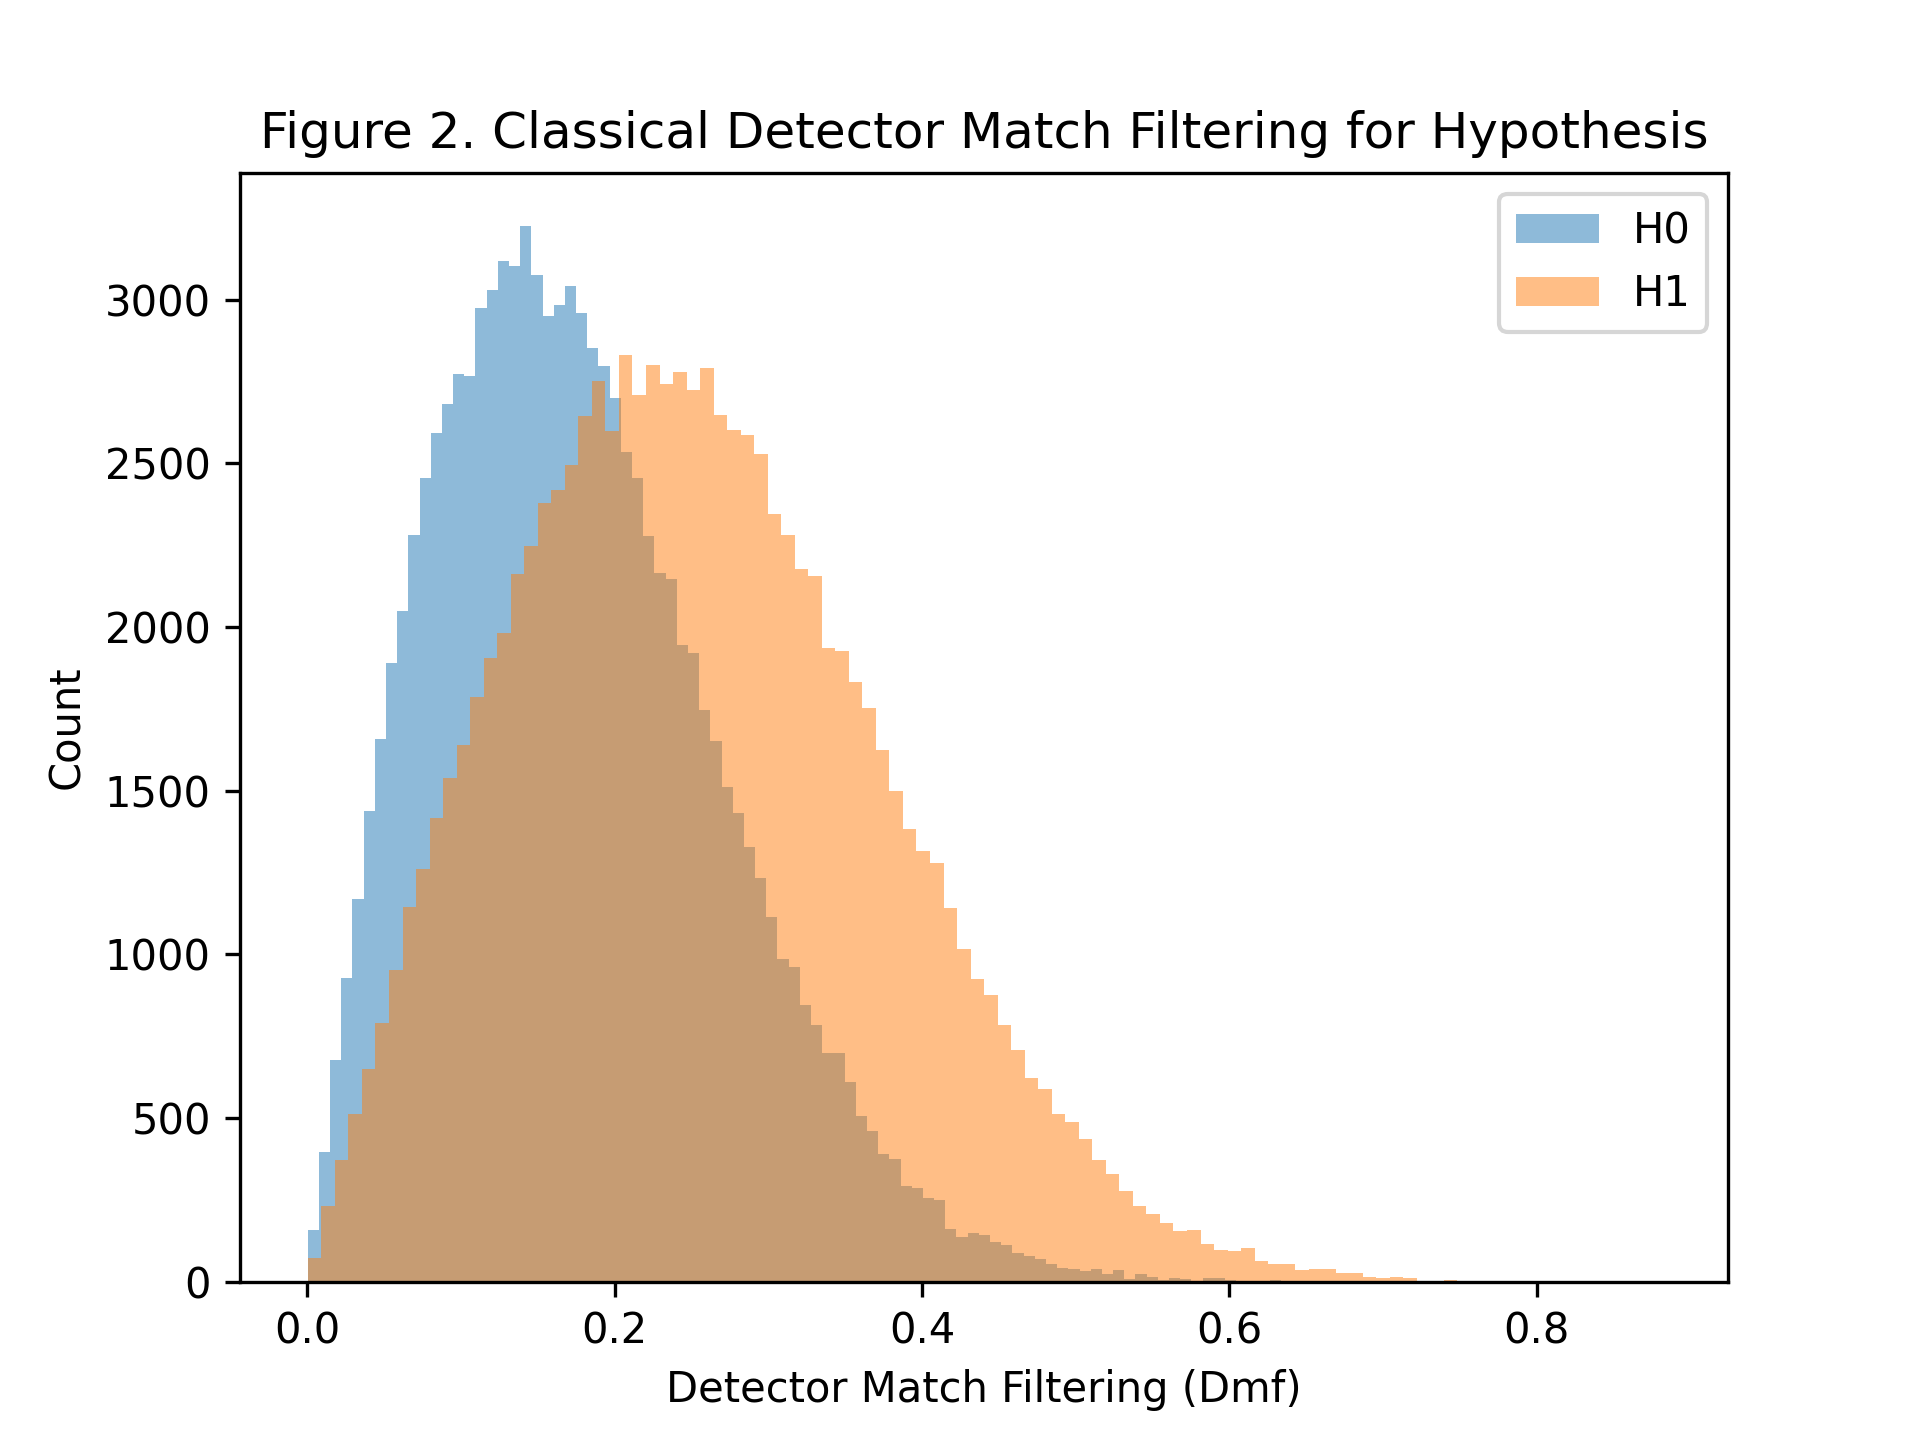
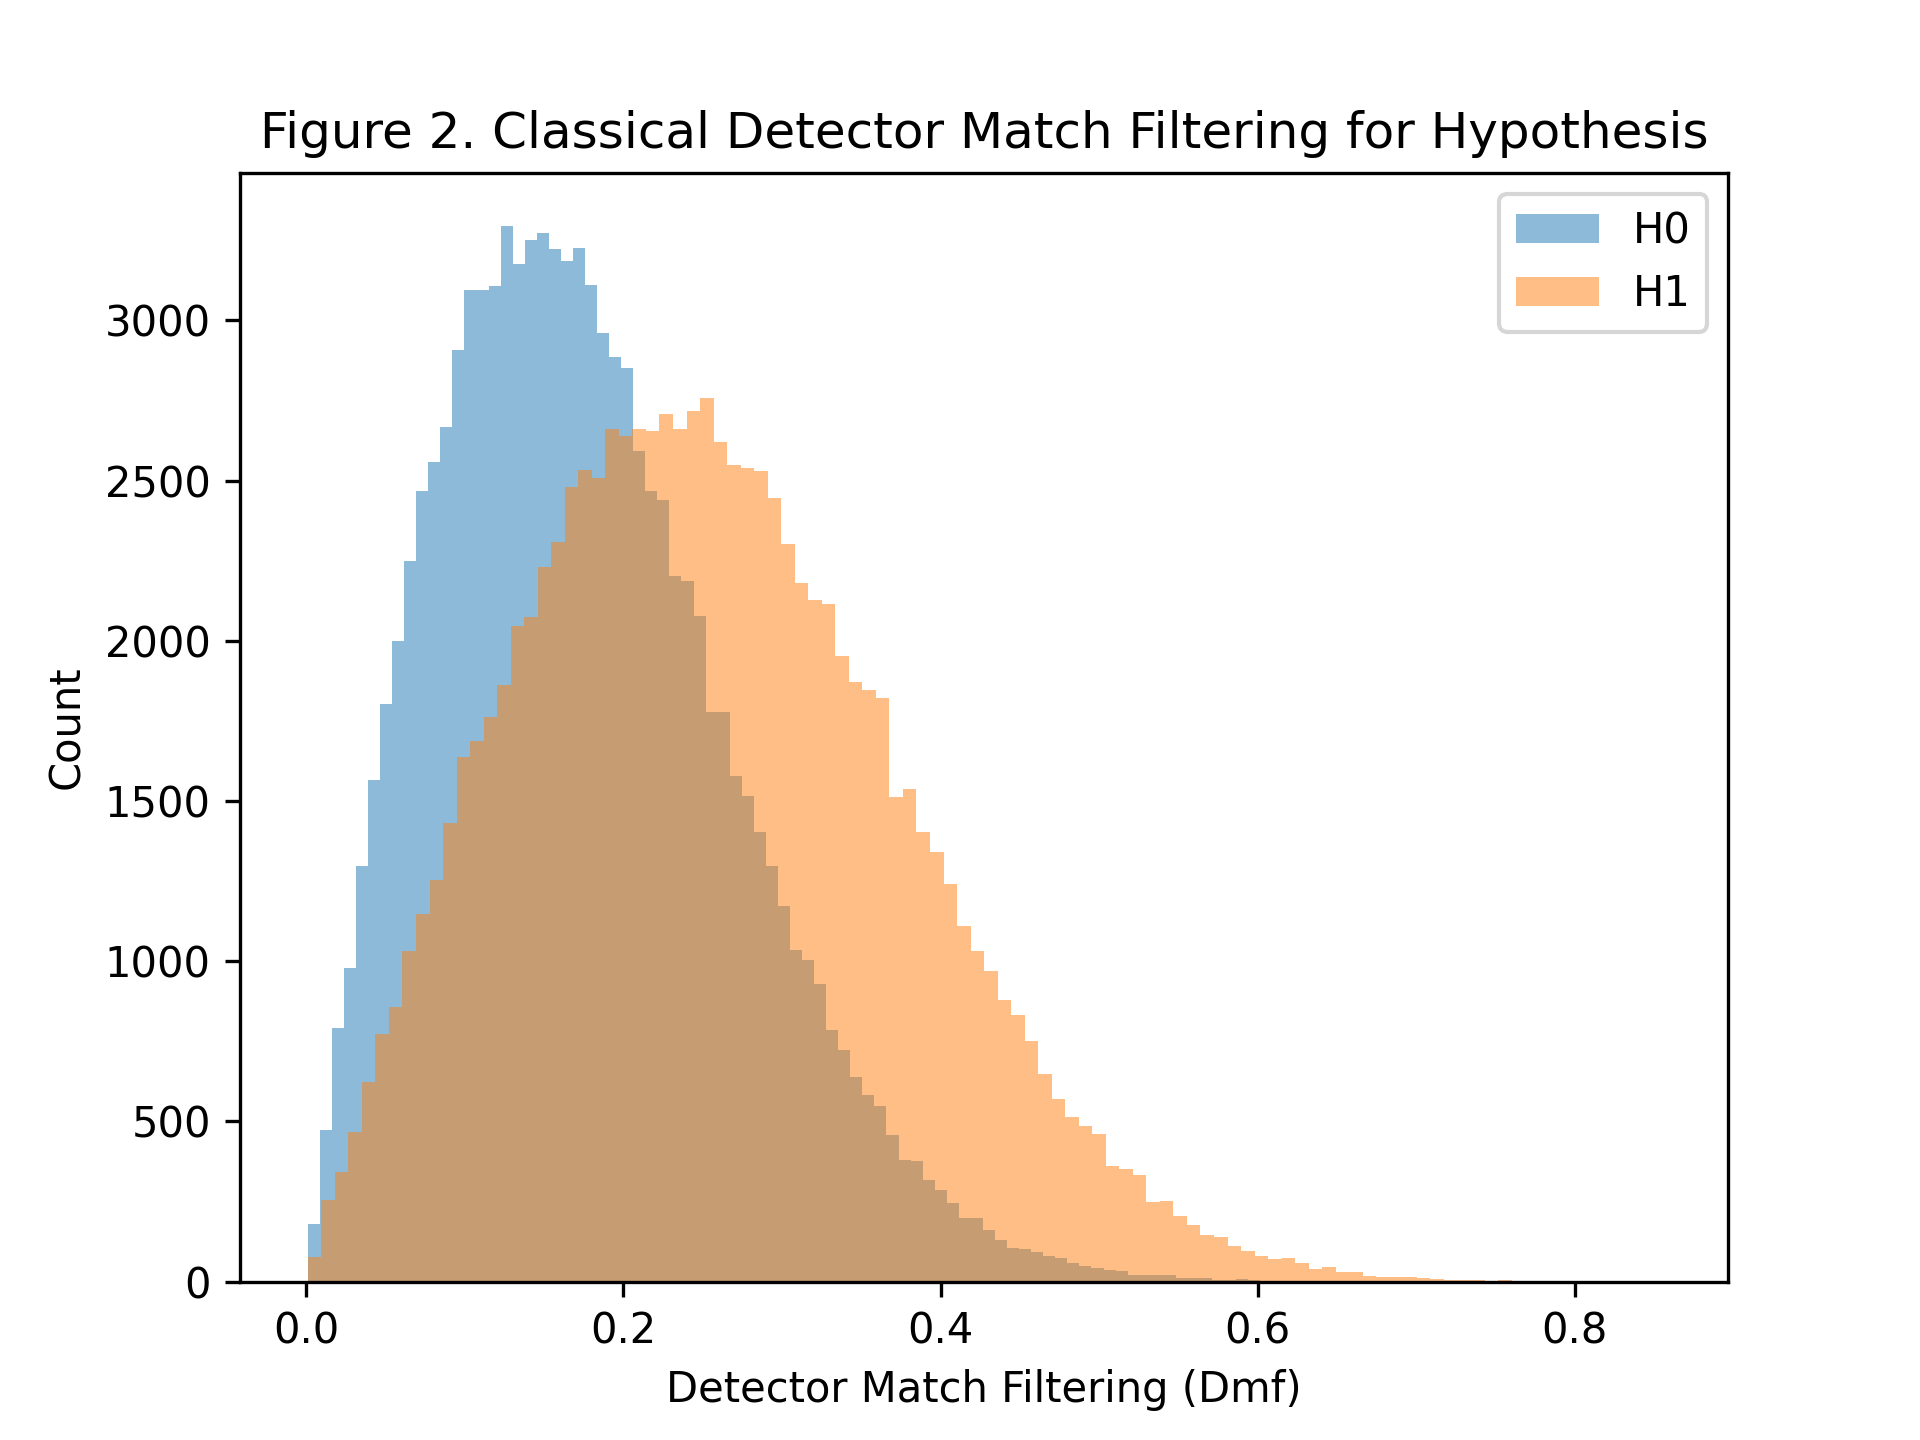
Fixed small bug with detector formulas with Rc and Rs

diff --git a/src/Simulator.cpp b/src/Simulator.cpp
@@ -15,7 +15,7 @@ double Simulator::simulateDetectorQuantum()
 
         Signals s = q.getSignalSamples();
         Rc_totalSamplesSum += (s.i_1*s.i_2 - s.q_1*s.q_2);
-        Rs_totalSamplesSum += (s.i_1*s.i_2 + s.q_1*s.q_2);
+        Rs_totalSamplesSum += (s.i_1*s.q_2 + s.q_1*s.i_2);
     }
 
     d.computeMatchFilterDetection(Rc_totalSamplesSum, Rs_totalSamplesSum, (double)N);
@@ -27,17 +27,17 @@ double Simulator::simulateDetectorClassical()
     int N = 100;
     double Rc_totalSamplesSum = 0;
     double Rs_totalSamplesSum = 0;
+    c.setParameters();
 
     for(int n = 0; n < N; n++)
     {
         c.setHypothesis(hypothesis);
-        c.setParameters();
         c.generateGaussianNorms();
         c.generateSignalSamples();
 
         Signals s = c.getSignalSamples();
-        Rc_totalSamplesSum += (s.i_1*s.i_2 - s.q_1*s.q_2);
-        Rs_totalSamplesSum += (s.i_1*s.i_2 + s.q_1*s.q_2);
+        Rc_totalSamplesSum += (s.i_1*s.i_2 + s.q_1*s.q_2);
+        Rs_totalSamplesSum += (s.i_1*s.q_2 - s.q_1*s.i_2);
     }
 
     d.computeMatchFilterDetection(Rc_totalSamplesSum, Rs_totalSamplesSum, (double)N);

diff --git a/src/ClassicalRadar.cpp b/src/ClassicalRadar.cpp
@@ -20,15 +20,16 @@ Status ClassicalRadar::setParameters()
         param.alpha = 0;
     else
         param.alpha = 0.1;
-    normal_distribution<double> dist(0.0,1.0);
-    noise.n_i = dist(gen);
-    noise.n_q = dist(gen);
 
     return SUCCESS;
 }
 
 Status ClassicalRadar::generateSignalSamples()
 {
+    normal_distribution<double> dist(0.0,1.0);
+    noise.n_i = dist(gen);
+    noise.n_q = dist(gen);
+    
     sig.i_1 = param.sigma_1 * gaus.g1;
     sig.q_1 = param.sigma_1 * gaus.g2;
     sig.i_2 = param.alpha*sig.i_1 + noise.n_i;
